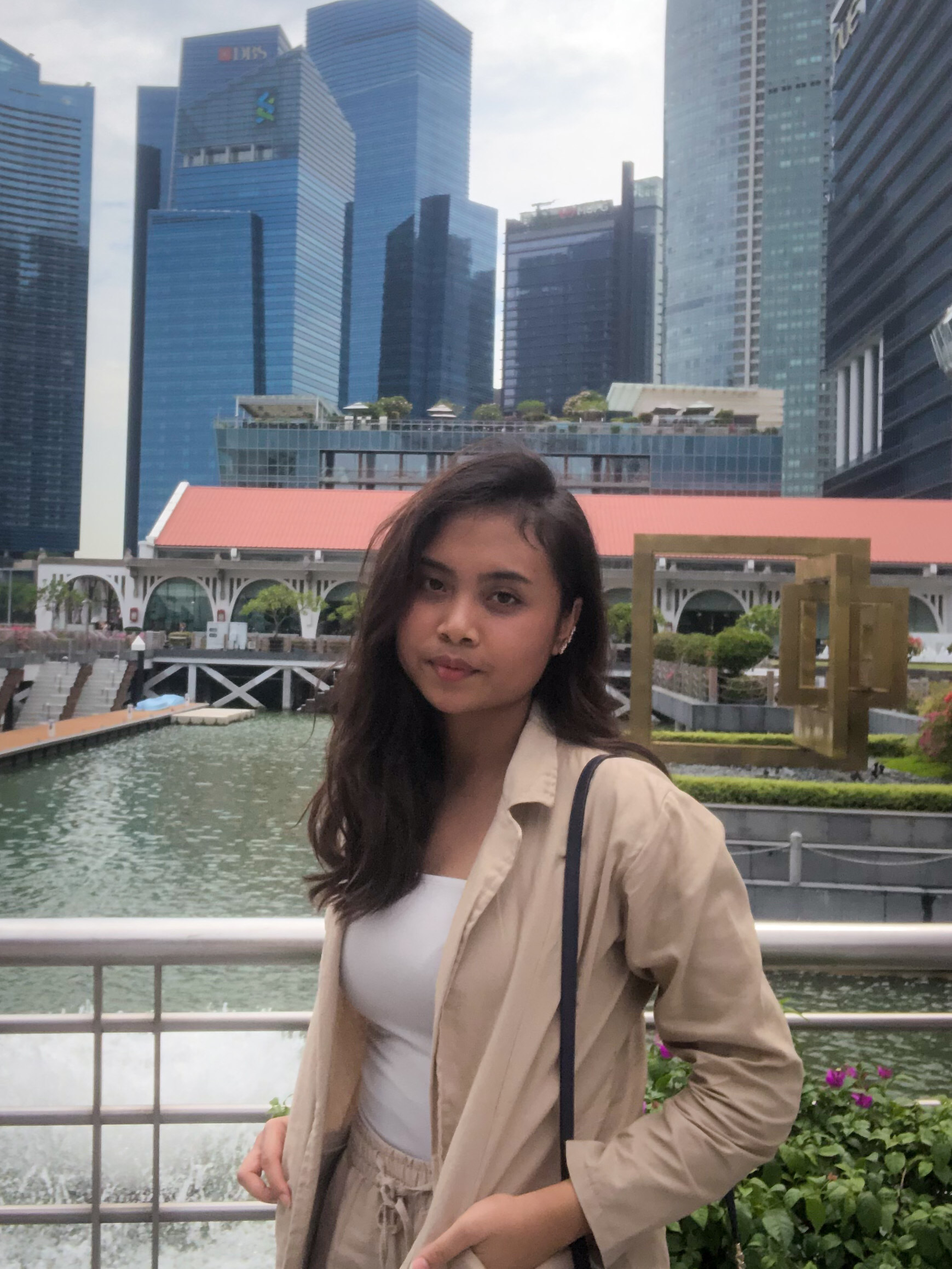
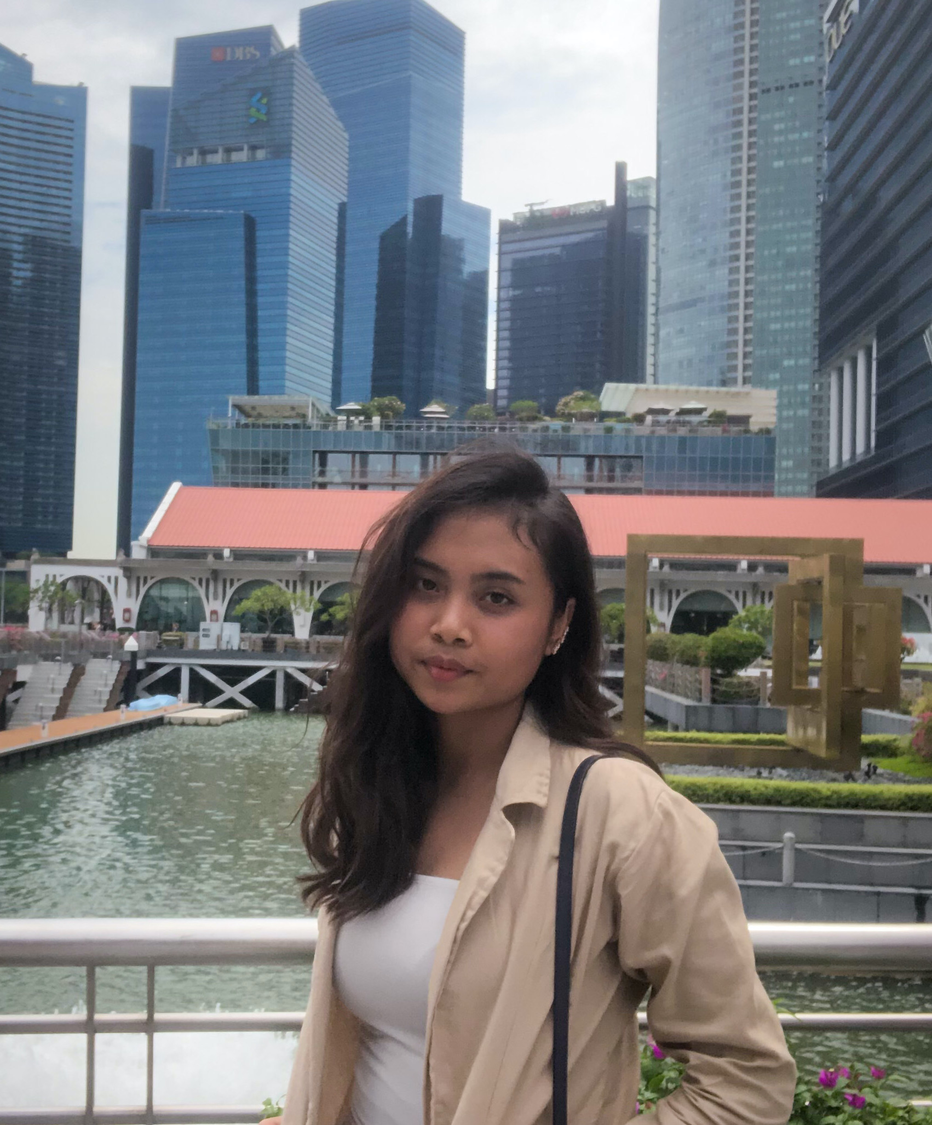
picture profile

diff --git a/index.html b/index.html
@@ -56,7 +56,7 @@
                         <div class="flex-item-1 flex-col">
                             
                                 <div class="feature-img">
-                                    <img src="img/adela.png">
+                                    <img src="img/profile.jpg">
                                     <div class="bg-green"></div>
                                 </div>
                             </div>
